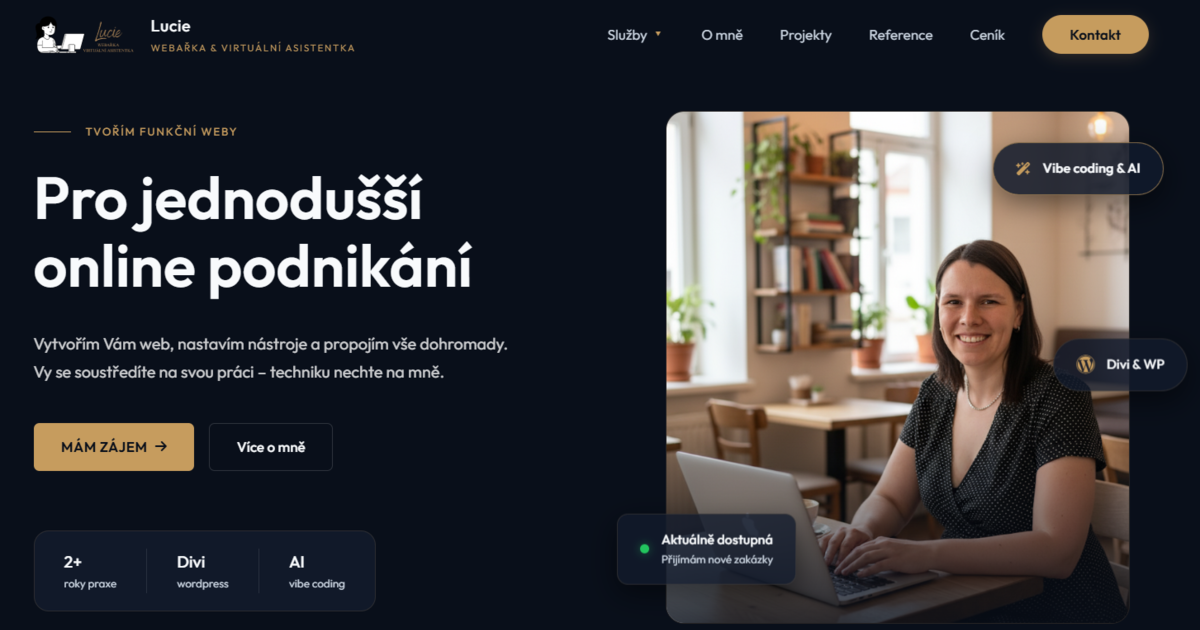
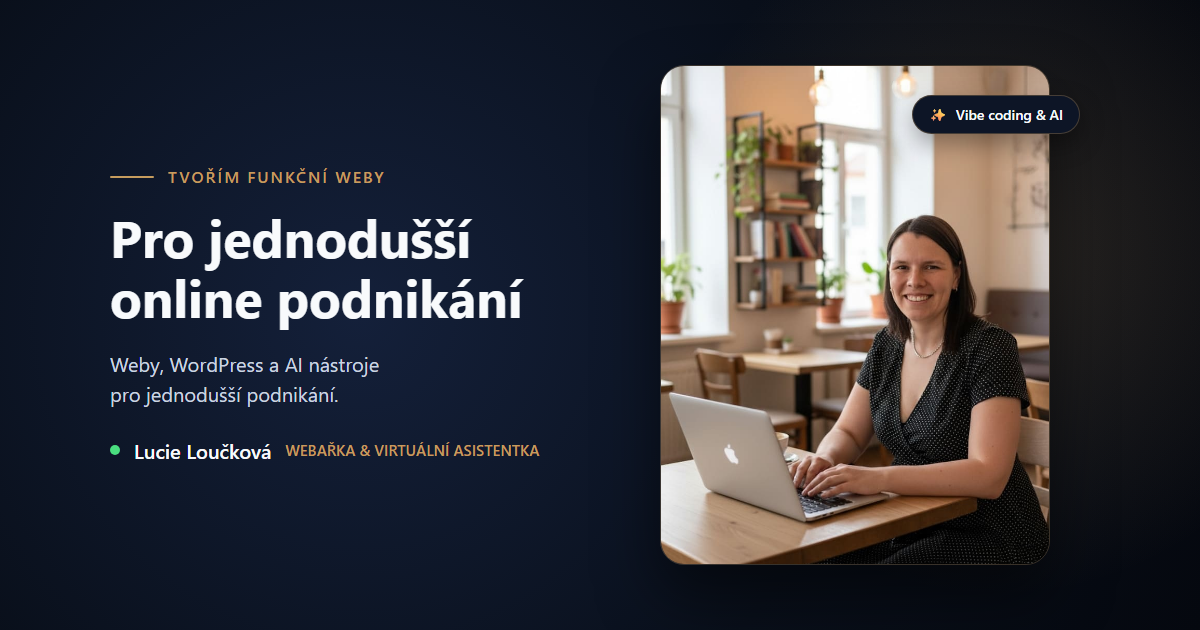
Verze 35

diff --git a/index.html b/index.html
@@ -95,9 +95,9 @@
           },
           "priceSpecification": {
             "@type": "PriceSpecification",
-            "price": "15000",
+            "price": "17000",
             "priceCurrency": "CZK",
-            "minPrice": "15000"
+            "minPrice": "17000"
           }
         },
         {
@@ -110,9 +110,9 @@
           },
           "priceSpecification": {
             "@type": "PriceSpecification",
-            "price": "10000",
+            "price": "12000",
             "priceCurrency": "CZK",
-            "minPrice": "10000"
+            "minPrice": "12000"
           }
         },
         {
@@ -125,7 +125,7 @@
           },
           "priceSpecification": {
             "@type": "PriceSpecification",
-            "price": "700",
+            "price": "800",
             "priceCurrency": "CZK",
             "unitText": "hodina"
           }
@@ -226,7 +226,7 @@
         "name": "Co potřebuji zařídit před spuštěním webu?",
         "acceptedAnswer": {
           "@type": "Answer",
-          "text": "Doménu i hosting zařídím za Vás — používám Webkitty, kde roční poplatky vyjdou přibližně na 1 500 Kč. Pokud už hosting máte, web na něj nahraji, případně zajistím migraci stávajícího webu."
+          "text": "Doménu i hosting zařídím za Vás — používám Webkitty, kde roční poplatky vyjdou přibližně na 1 800 Kč. Pokud už hosting máte, web na něj nahraji, případně zajistím migraci stávajícího webu."
         }
       }
     ]
@@ -703,7 +703,7 @@
             <h3>Tvorba webu v Divi</h3>
             <div class="price-box">
               <span class="currency">od</span>
-              <span class="amount">15 000</span>
+              <span class="amount">17 000</span>
               <span class="currency">Kč</span>
               <div class="interval">jednorázově</div>
             </div>
@@ -731,7 +731,7 @@
             <h3 class="text-gold mt-1">Tvorba webu s AI</h3>
             <div class="price-box border-bottom-gold">
               <span class="currency text-gold">od</span>
-              <span class="amount text-gold">10 000</span>
+              <span class="amount text-gold">12 000</span>
               <span class="currency text-gold">Kč</span>
               <div class="interval text-muted-gold">jednorázově</div>
             </div>
@@ -757,7 +757,7 @@
             <div class="pricing-icon-badge"><i class="fas fa-headset"></i></div>
             <h3>Virtuální asistence</h3>
             <div class="price-box">
-              <span class="amount">700</span>
+              <span class="amount">800</span>
               <span class="currency">Kč</span>
               <div class="interval">za hodinu</div>
             </div>
@@ -938,7 +938,7 @@
               </summary>
               <div class="faq-answer">
                 <p>Doménu i hosting zařídím <strong>za Vás</strong> — používám Webkitty, kde roční poplatky vyjdou
-                  přibližně na <strong>1 500 Kč</strong>. Pokud už hosting máte, web na něj nahraji, případně zajistím
+                  přibližně na <strong>1 800 Kč</strong>. Pokud už hosting máte, web na něj nahraji, případně zajistím
                   migraci stávajícího webu.</p>
               </div>
             </details>

diff --git a/virtualni_asistence.html b/virtualni_asistence.html
@@ -6,7 +6,7 @@
   <meta name="viewport" content="width=device-width, initial-scale=1.0">
   <title>Virtuální asistence | Lucie Loučková</title>
   <meta name="description"
-    content="Techniku nechej na mně. Úpravy webů, nastavení nástrojů, emailing, Google Analytics a další. Virtuální asistence 700 Kč/hod.">
+    content="Techniku nechej na mně. Úpravy webů, nastavení nástrojů, emailing, Google Analytics a další. Virtuální asistence 800 Kč/hod.">
   <link rel="icon" type="image/png" href="/favicon.png">
   <link rel="canonical" href="https://webelo.cz/virtualni_asistence">
   <link rel="preconnect" href="https://fonts.googleapis.com">
@@ -295,7 +295,7 @@
 
         <div class="price-box mb-4 border-0 d-flex justify-content-center align-items-baseline gap-2 pb-0">
           <span class="amount"
-            style="color: var(--primary); font-size: 4rem; font-weight: 700; line-height: 1;">700</span>
+            style="color: var(--primary); font-size: 4rem; font-weight: 700; line-height: 1;">800</span>
           <span class="currency" style="color: var(--text-dark-muted); font-size: 1.5rem;">Kč</span>
         </div>
         <div class="interval text-muted-gold mb-4"

diff --git a/tvorba_ai.html b/tvorba_ai.html
@@ -336,7 +336,7 @@
 
         <div class="price-box mb-4 border-0 d-flex justify-content-center align-items-baseline gap-2 pb-0">
           <span class="currency" style="color: var(--text-dark-muted); font-size: 1.5rem;">od</span>
-          <span class="amount" style="color: var(--primary); font-size: 4rem; font-weight: 700; line-height: 1;">10
+          <span class="amount" style="color: var(--primary); font-size: 4rem; font-weight: 700; line-height: 1;">12
             000</span>
           <span class="currency" style="color: var(--text-dark-muted); font-size: 1.5rem;">Kč</span>
         </div>

diff --git a/tvorba_divi.html b/tvorba_divi.html
@@ -333,7 +333,7 @@
 
         <div class="price-box mb-4 border-0 d-flex justify-content-center align-items-baseline gap-2 pb-0">
           <span class="currency" style="color: var(--text-dark-muted); font-size: 1.5rem;">od</span>
-          <span class="amount" style="color: var(--primary); font-size: 4rem; font-weight: 700; line-height: 1;">15
+          <span class="amount" style="color: var(--primary); font-size: 4rem; font-weight: 700; line-height: 1;">17
             000</span>
           <span class="currency" style="color: var(--text-dark-muted); font-size: 1.5rem;">Kč</span>
         </div>
